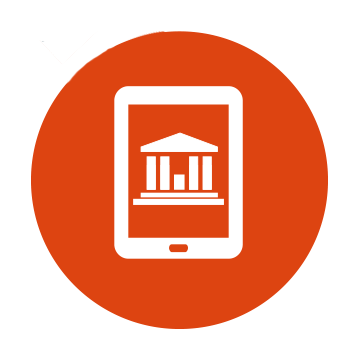
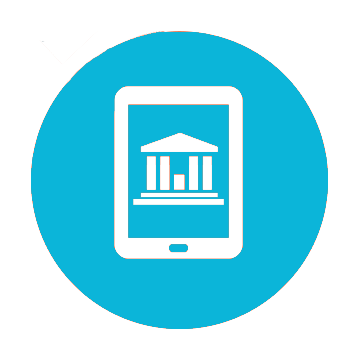
Further improvements to theme's colour palette

diff --git a/ionicApp/src/pages/signup/signup.scss b/ionicApp/src/pages/signup/signup.scss
@@ -7,12 +7,29 @@ page-signup {
     width: 30%;
     margin:0 auto;
   }
-  .signup-button {
+  .signup-button{
+    background-color: #4494c5;
     padding-top: 25px;
     bottom:20px;
     width: 80%;
     height: 200px;
 
     margin:0 auto;
+  }
+
+  .button-md-primary {
+
+    color: #fff;
+    background-color: #4494c5;
+
+  }
+
+
+  .item-md.item-input.ng-valid.item-input-has-value:not(.input-has-focus):not(.item-input-has-focus) .item-inner, .item-md.item-input.ng-valid.input-has-value:not(.input-has-focus):not(.item-input-has-focus) .item-inner {
+
+    border-bottom-color: #4aaadc;
+    -webkit-box-shadow: inset 0 -1px 0 0 #4aaadc;
+    box-shadow: inset 0 -1px 0 0 #4aaadc;
+
   }
 }

diff --git a/ionicApp/src/pages/login/login.scss b/ionicApp/src/pages/login/login.scss
@@ -15,4 +15,20 @@ page-login {
 
     margin:0 auto;
   }
+
+  .button-md-primary {
+
+    color: #fff;
+    background-color: #3a558c;
+
+  }
+
+
+  .item-md.item-input.ng-valid.item-input-has-value:not(.input-has-focus):not(.item-input-has-focus) .item-inner, .item-md.item-input.ng-valid.input-has-value:not(.input-has-focus):not(.item-input-has-focus) .item-inner {
+
+    border-bottom-color: #4482c1;
+    -webkit-box-shadow: inset 0 -1px 0 0 #4482c1;
+    box-shadow: inset 0 -1px 0 0 #4482c1;
+
+  }
 }

diff --git a/ionicApp/src/theme/variables.scss b/ionicApp/src/theme/variables.scss
@@ -36,6 +36,8 @@ $colors: (
 );
 
 
+
+
 // App iOS Variables
 // --------------------------------------------------
 // iOS only Sass variables can go here
